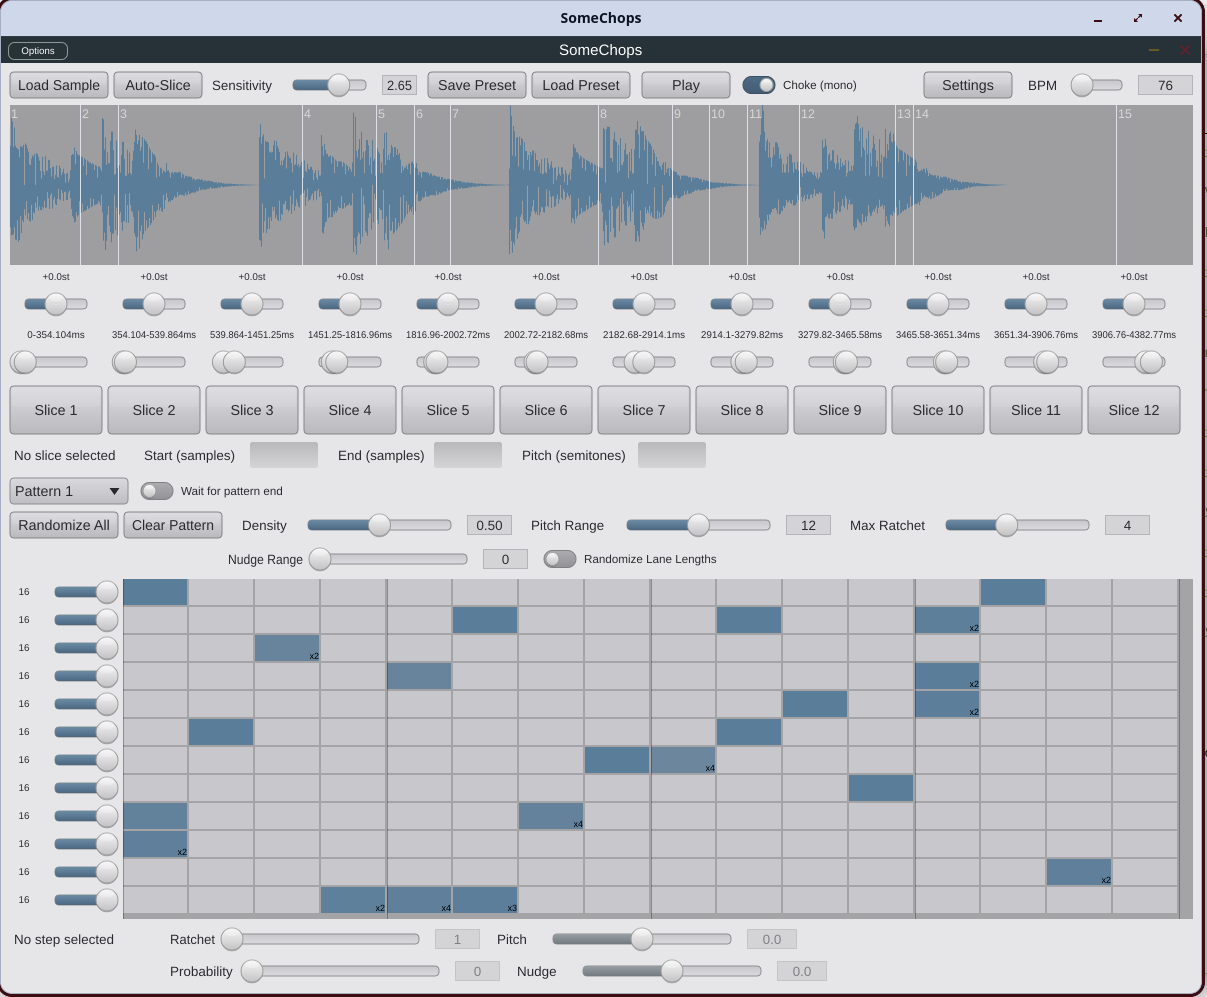
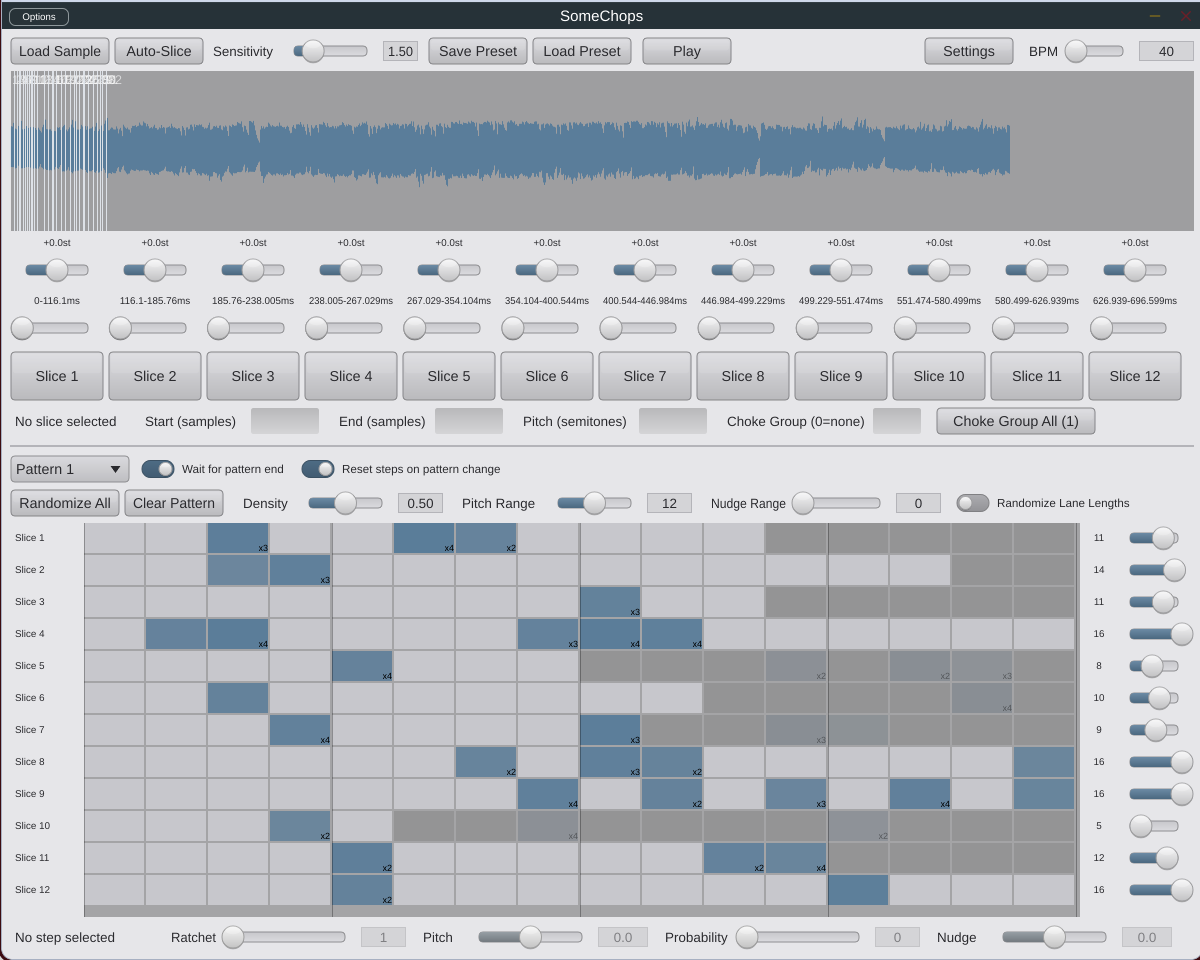
update readme and picture for 1.0

diff --git a/README.md b/README.md
@@ -15,18 +15,18 @@ This entire plugin is basically based off of my memory of having the Teenage Eng
 
 ## Walkthrough
 
-- On the top bar, load a sample, auto-slice, save and load presets, change the BPM the sequence plays at (in standalone mode), change the play mode from polyphonic to mono (choking all other hits), play and stop the sequencer, and open the settings page (elaborated at bottom of section).
+- On the top bar, load a sample, auto-slice, save and load presets, play and stop the sequencer, open settings (change MIDI note settings and theme), and change the BPM the sequence plays at (in standalone mode).
 
-- The top screen is where you do the slicing. The plugin shows your sample there, and auto-slices using a transient detector: you can adjust the slice sensitivity and reslice if you think it got it wrong, or you can manually adjust each slice yourself per sample.
+- The top screen shows the slices. The plugin shows your sample there, and auto-slices using a transient detector. You can adjust the slice sensitivity and reslice if you think it got it wrong, or if you want to slice at specific times you can move the sliders. You can also change the pitch of each slice up or down two octaves! If you want to set exact slicing or an exact pitch amount, you can click on the slice, then edit it with the edit options at the bottom.
 
-- The bottom screen is where the sequencing of the slices happens, in a twelve-lane up to 16-step sequencer. Press 'Randomize All' to randomize everything about the notes that you want, and mess around. Click a step to adjust all of its parameters using the bottom sliders and boxes, including pitch (which stacks with the per-slice pitch), nudging slices left/right, probability, and ratchet amount (1x to 8x). 
+- The bottom screen is where the sequencing of the slices happens, in a twelve-lane up to 16-step sequencer with up to 32 patterns. Press 'Randomize All' to randomize a pattern with a randomizer with some slidable options, and mess around. Click a step to adjust all of its parameters using the bottom sliders and boxes, including pitch (which stacks with the per-slice pitch), nudging slices left/right, probability, and ratchet amount (1x to 8x, combine with nudge if you want a ratchet in a specific place). 
 
-- Toggle whether a pattern switch happens instantly, or waits to land on the beat. Have up to 32 patterns and switch between them to make a song ... or just have fun, IDK. It's pretty fun!
-
-- The plugin accepts MIDI notes. By default the plugin maps each slice to the c2-b2 range, so you can play each slice with a keyboard. If you are using the sequencer, patterns 1-11 are mapped from c3-a#3, the start note is mapped to b3, and the stop note is mapped to c4. You can also of course click the buttons with the mouse.
+- Toggle whether a pattern switch happens instantly, or waits to land on the beat. Also toggle whether a pattern switch starts everything on the 1 again. You can theoretically make a bunch of patterns and switch between them to make a song! Or have fun! Or drop a loop and just see what happens.
 
 ### Settings 
 - You can change the MIDI note settings in the settings, and change the theme of the plugin. 
+- By default the plugin maps each slice to the c2-b2 range, so you can play each slice in one octave. If you are using the sequencer, patterns 1-11 are mapped from c3-a#3, the start note is mapped to b3, and the stop note is mapped to c4. You can also of course click the buttons with the mouse.
+- There are four themes: minimal (the default theme), cute, old-school, and futuristic.
 
 ## Building
 Once prerequisites are installed (see below), run build.sh on linux and mac, or build.bat on windows.
@@ -40,10 +40,3 @@ Once prerequisites are installed (see below), run build.sh on linux and mac, or 
 - sudo dnf install libXcursor-devel libXcomposite-devel gtk3-devel webkit2gtk4.1-devel freetype-devel curl-devel
 ### MacOS
 - xcode-select --install (everything else is already there by default)
-
-## Status
-
-- Tested for a bit and mostly works as expected. Things to possibly add/change:
-- Choke groups, to set eg multiple samples to the same choke group, instead of just having a mono/poly toggle. Also make the current mono setting more consistent with what takes priority
-- Have the pattern change when all of the lanes end. Not totally sure that it works that way right now, it's not fully consistent from what I was seeing in testing.
-- Maybe a pattern chain option?
